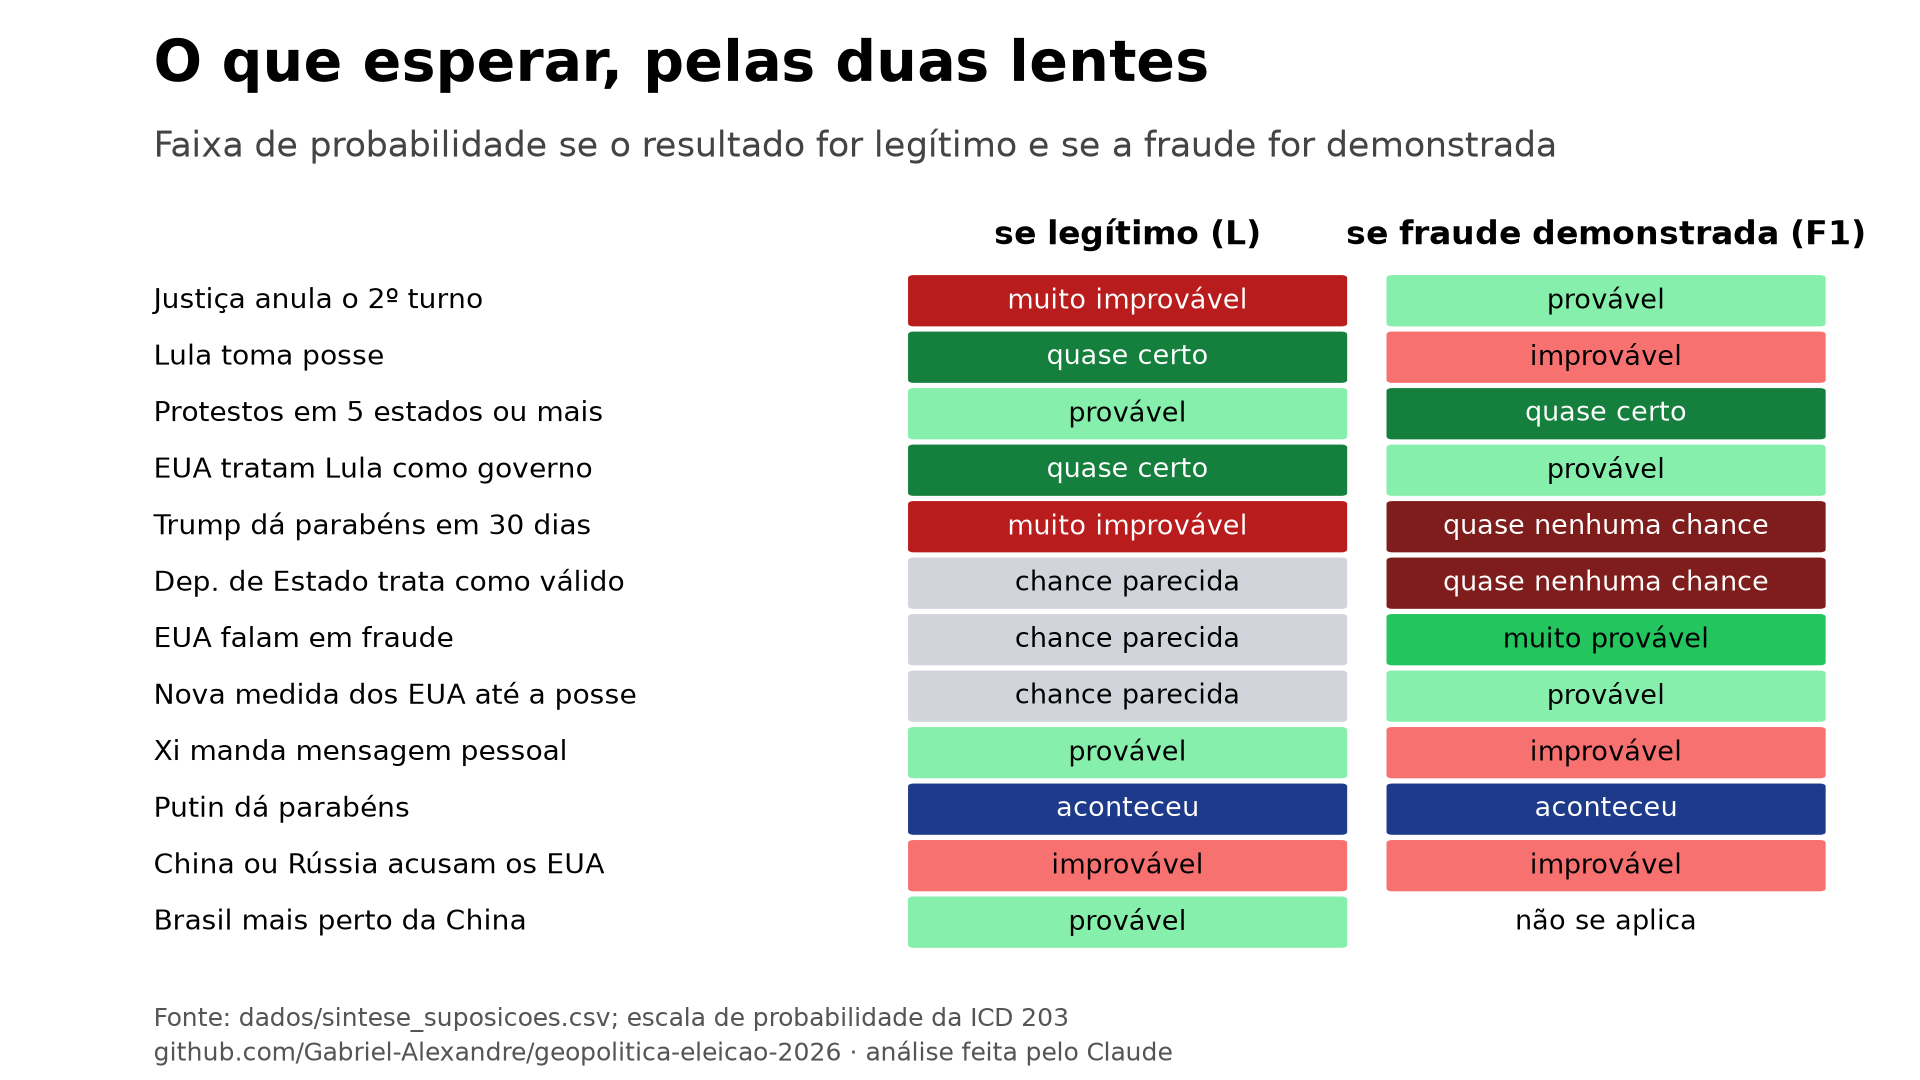
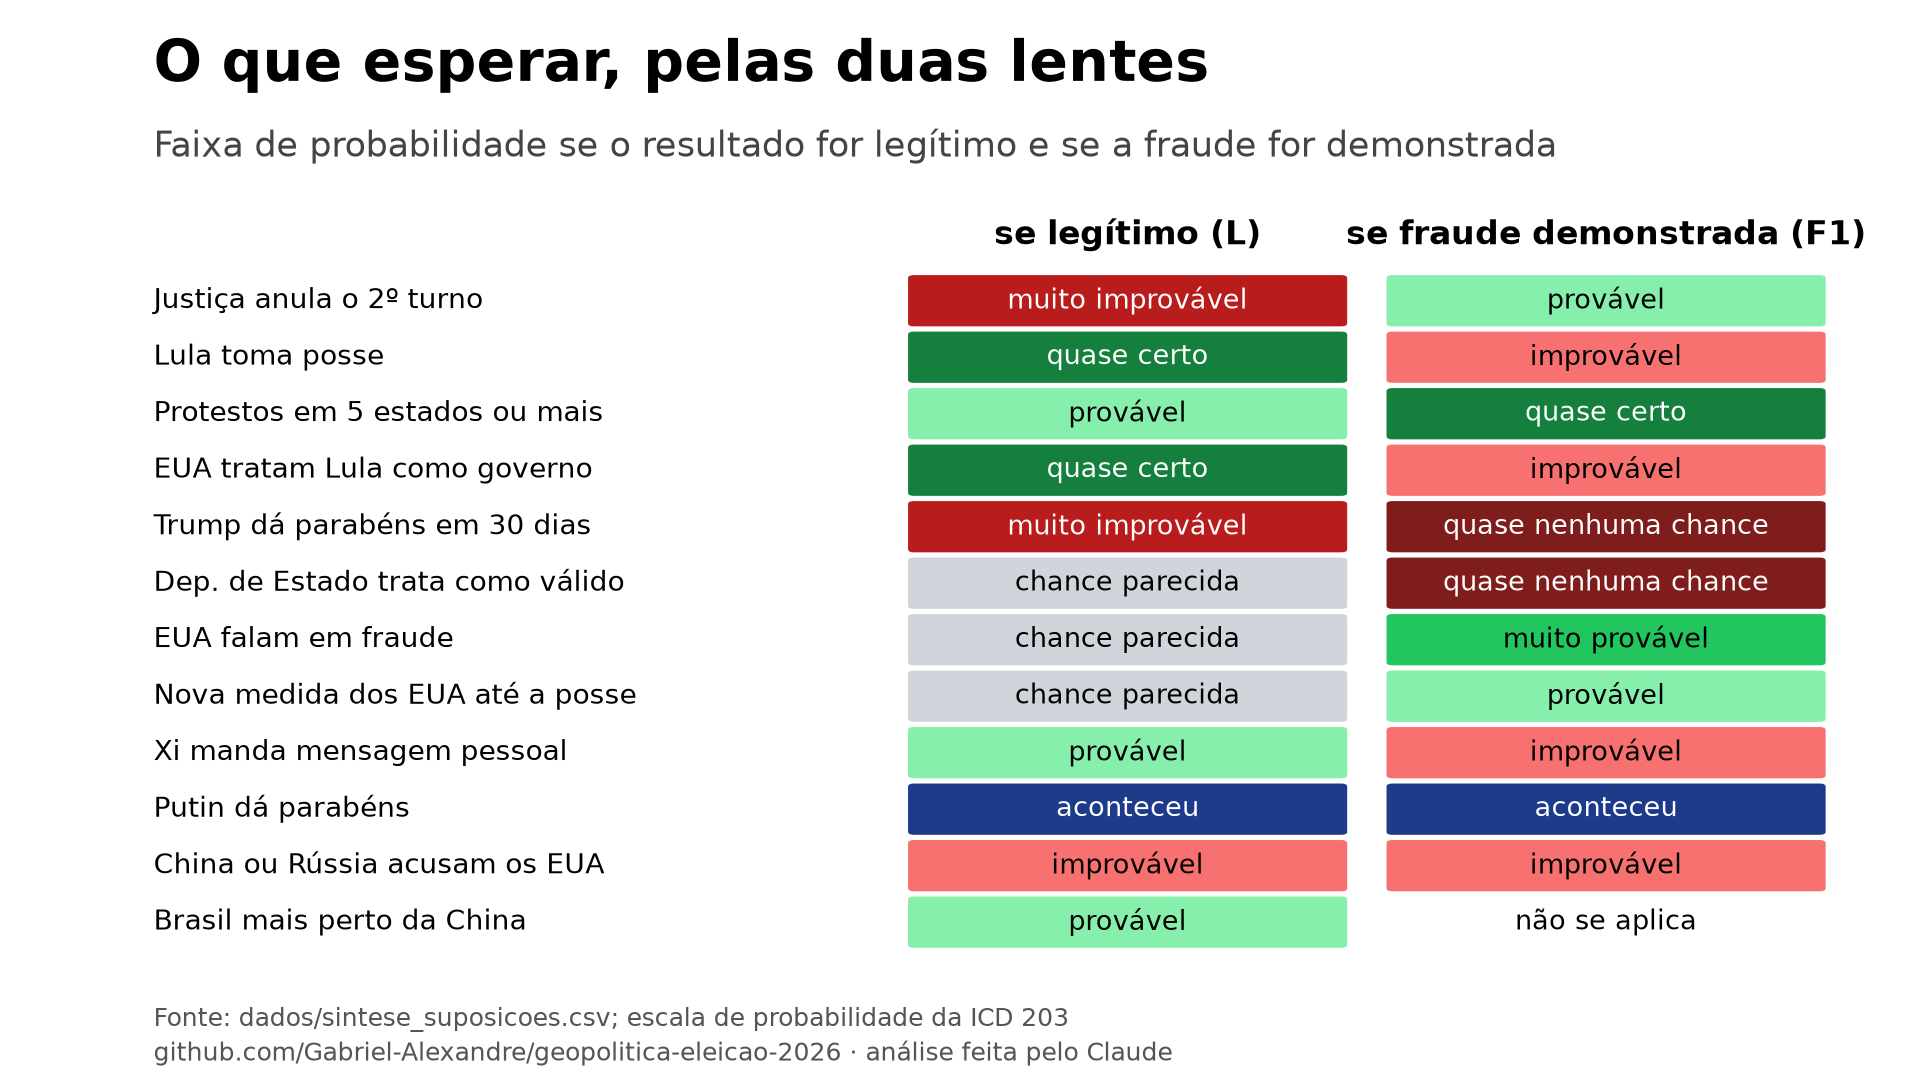
S4 em F1 volta para improvável (Bolívia 2019: com a eleição anulada, os EUA reconheceram a presidente interina); gráficos g09 (teto das duas pontas) e g10 (os 2 caminhos quando a fraude entra em jogo) para o vídeo

Changed region(s): [[0.7188, 0.3972, 0.9688, 0.4583]]

diff --git a/ferramentas/graficos.py b/ferramentas/graficos.py
@@ -187,9 +187,60 @@ def g08_suposicoes() -> None:
     salvar(figura, "g08_suposicoes_duas_lentes", "dados/sintese_suposicoes.csv; escala de probabilidade da ICD 203")
 
 
+def g09_teto(teto: dict) -> None:
+    """O tamanho que a queixa dos impedidos de votar precisaria ter, contra a abstenção inteira de 2022."""
+    figura, eixo = nova("Quantos impedidos de votar virariam o resultado",
+                        "Eleitores impedidos necessários para virar 4,43 milhões de votos, pela fatia que votaria no Flávio")
+    figura.subplots_adjust(left=0.30)
+    imp = teto["eleitores_impedidos_necessarios"]
+    nomes = ["se 60% votassem no Flávio", "se 75% votassem no Flávio", "se 100% votassem no Flávio",
+             "abstenção do 2º turno de 2022"]
+    valores = [imp["60% para o Flávio"], imp["75% para o Flávio"], imp["100% para o Flávio"], teto["abstencao_2o_turno_2022"]]
+    cores = ["#B03A2E", "#B03A2E", "#B03A2E", "#6B6B6B"]
+    barras = eixo.barh(range(len(nomes)), [v / 1e6 for v in valores], color=cores)
+    eixo.set_yticks(range(len(nomes)))
+    for barra, valor in zip(barras, valores):
+        eixo.text(barra.get_width() + 0.4, barra.get_y() + barra.get_height() / 2,
+                  f"{valor / 1e6:.1f} milhões".replace(".", ","), va="center", fontsize=22)
+    eixo.invert_yaxis()
+    eixo.set_yticklabels(nomes, fontsize=19)
+    eixo.set_xlim(0, 40)
+    eixo.set_xticks([])
+    eixo.spines["bottom"].set_visible(False)
+    salvar(figura, "g09_teto_das_duas_pontas", "resultados/RESUMO.json (teto_das_duas_pontas); TSE, via o projeto previsao-segundo-turno-2026")
+
+
+def g10_dois_caminhos() -> None:
+    """Variante V3: fraude apontada de fora contra a Justiça do país agindo."""
+    with (RESULTADOS / "variantes.csv").open(encoding="utf-8") as arquivo:
+        v3 = {(l["variante"], l["desfecho"]): l["variante_valor"] for l in csv.DictReader(arquivo) if l["variante"].startswith("V3")}
+    pegar = lambda grupo, desfecho: v3[(f"V3: só fraude {grupo}", desfecho)].split(" (")[0]  # noqa: E731
+    figura, eixo = nova("Os 2 caminhos quando a fraude entra em jogo", "O que aconteceu depois, nas eleições do histórico")
+    figura.subplots_adjust(right=0.95)
+    eixo.axis("off")
+    colunas = [
+        (0.01, "#7F1D1D", "FRAUDE APONTADA DE FORA", "Venezuela 2024 · Bielorrússia 2020",
+         [f"o acusado ficou no poder: {pegar('demonstrada', 'vencedor_tomou_posse')}",
+          f"os EUA não reconheceram: {pegar('demonstrada', 'eua_nao_reconheceu')}"]),
+        (0.51, "#1E3A8A", "A JUSTIÇA DO PAÍS AGIU", "Quênia 2017 · Bolívia 2019 · Romênia 2024",
+         [f"eleição anulada ou refeita: {pegar('disputada', 'anulada_ou_refeita')}",
+          "(o 4º caso, Quênia 2007, não foi anulado)"]),
+    ]
+    for x, cor, titulo, casos, linhas in colunas:
+        eixo.add_patch(matplotlib.patches.FancyBboxPatch((x, 0.05), 0.47, 0.9, boxstyle="round,pad=0.01",
+                                                         color=cor, alpha=0.12, transform=eixo.transAxes))
+        eixo.text(x + 0.02, 0.85, titulo, fontsize=23, fontweight="bold", color=cor, transform=eixo.transAxes)
+        eixo.text(x + 0.02, 0.74, casos, fontsize=17, color="#333333", transform=eixo.transAxes)
+        for i, linha in enumerate(linhas):
+            eixo.text(x + 0.02, 0.55 - i * 0.16, textwrap.fill(linha, 34), fontsize=20, transform=eixo.transAxes, va="top")
+    salvar(figura, "g10_os_dois_caminhos", "resultados/variantes.csv (V3), fichas em duas passadas")
+
+
 def main() -> None:
     resumo = json.loads((RESULTADOS / "RESUMO.json").read_text(encoding="utf-8"))
     f3 = resumo["f3"]
+    g09_teto(resumo["teto_das_duas_pontas"])
+    g10_dois_caminhos()
     g01_exportacoes(f3)
     g02_importacoes(f3)
     g03_onu(f3)

diff --git a/RELATORIO.md b/RELATORIO.md
@@ -22,7 +22,7 @@ Gerado por `ferramentas/gerar_relatorio.py`. Análise feita pelo Claude (Anthrop
 | S1 | A Justiça brasileira anula ou manda refazer o 2º turno | muito improvável | provável | quase nenhuma chance | sim (subiu, pela revisão) | Subiu pela revisão adversarial: tribunais anularam eleições por irregularidade de procedimento sem atribuir fraude (Quênia 2017, Malaui 2019); contados assim, a anulação na lente L deixa de ser zero (variante V1). Fica em muito improvável, e não mais alto, porque a queixa daqui é a prorrogação que as duas campanhas pediram e porque, segundo o g1, ministros do TSE avaliam que o pedido não prospera. Em F1 fica provável: quando a fraude foi disputada e a Justiça do país agiu, a eleição foi anulada ou refeita na maior parte dos casos (V3) |
 | S2 | Lula toma posse em 05/jan/2027 | quase certo | improvável | quase certo | não | Em todos os casos sem fraude demonstrada o vencedor tomou posse. Na lente F o histórico mostra posse em parte dos casos, mas eram países em que as instituições acusadas eram as mesmas que decidiam; em F1 a prova seria aceita pela Justiça brasileira, então a posse fica improvável |
 | S3 | Há protestos de rua contra o resultado em pelo menos 5 estados | provável | quase certo | provável | não | O histórico mede violência relevante, que é mais que protesto: é a referência mais próxima que as fichas têm. Em 2022, com margem menor, houve bloqueios e acampamentos. Pesa contra, e não mudou a faixa: até a manhã de 26/out nenhum bloqueio relevante foi achado |
-| S4 | Os EUA continuam tratando o governo Lula como o governo do Brasil | quase certo | provável | quase certo | sim (F1 subiu, pela revisão) | Em nenhum caso sem fraude demonstrada que fechou com duas fontes os EUA deixaram de reconhecer. Os não reconhecimentos da conta têm o vencedor como adversário dos EUA e, em geral, um nome alternativo reconhecido; no Brasil não há nome alternativo. Exceção fora da conta: a Ucrânia 2004 saiu por falta de duas fontes, e lá os EUA não reconheceram um vencedor que não era adversário. Em F1 subiu de improvável para provável pela revisão: o Lula é o presidente em exercício até 05/jan em qualquer lente, e nos casos de fraude disputada em que a Justiça do país agiu os EUA esperaram a nova eleição em vez de reconhecer outra pessoa |
+| S4 | Os EUA continuam tratando o governo Lula como o governo do Brasil | quase certo | improvável | quase certo | não | Em nenhum caso sem fraude demonstrada que fechou com duas fontes os EUA deixaram de reconhecer. Os não reconhecimentos da conta têm o vencedor como adversário dos EUA e, em geral, um nome alternativo reconhecido; no Brasil não há nome alternativo. Exceção fora da conta: a Ucrânia 2004 saiu por falta de duas fontes, e lá os EUA não reconheceram um vencedor que não era adversário. Em F1 fica improvável: o defensor da lente F pediu provável (o Lula é o presidente até 05/jan em qualquer lente), mas a suposição vai até 2027, e na Bolívia de 2019, com a eleição anulada, os EUA reconheceram a presidente interina; com uma anulação aqui, quem assumisse até a nova eleição seria outra pessoa |
 | S5 | Trump parabeniza Lula em público em até 30 dias | muito improvável | quase nenhuma chance | muito improvável | não | O histórico puxa para cima: na lente L os EUA quase sempre cumprimentaram, e com o vencedor neutro (como o Lula em 2014 e 2022, emenda 4) foi a maioria. Puxam para baixo a fala do próprio Trump (EFE) e o caso mais parecido da era Trump, a Hungria de 2026, em que o aliado perdeu e não houve cumprimento formal. A suposição é sobre o Trump em pessoa |
 | S6 | O Departamento de Estado trata o resultado como válido em público em até 30 dias | chance parecida | quase nenhuma chance | chance parecida | não | As duas forças se anulam: no histórico da lente L os EUA sempre reconheceram de alguma forma (na Hungria, com o vice-presidente dizendo que trabalharia com o novo governo); aqui o presidente pôs o resultado em dúvida, segundo a EFE, e o governo não tinha falado nas primeiras 13 horas. O defensor da lente L pediu provável; a faixa fica com a variante dele publicada |
 | S7 | Trump ou o governo dos EUA dizem em público que houve fraude ou apoiam a anulação | chance parecida | muito provável | chance parecida | sim (subiu) | Subiu porque o padrão do próprio Trump apareceu num caso recente: em Honduras 2025 ele falou em fraude sem prova quando a contagem atrasou, e aqui, segundo a EFE, já citou o Joe Biden ao falar do resultado. Pesa contra a Hungria 2026, em que ninguém do governo alegou fraude depois da derrota do aliado. O governo como instituição nunca declarou fraude num caso da lente L, por isso não passa de chance parecida |

diff --git a/docs/LEITURA_DA_IA.md b/docs/LEITURA_DA_IA.md
@@ -29,10 +29,10 @@ Feita pelo Claude depois de todas as fases. Para cada suposição: o que mudou d
 ## S4 · Os EUA continuam tratando o governo Lula como o governo do Brasil
 
 - **Antes (pré-registro):** L quase certo · F1 improvável · F2 quase certo
-- **Agora:** L quase certo · F1 provável · F2 quase certo
+- **Agora:** L quase certo · F1 improvável · F2 quase certo
 - **O histórico:** os EUA não reconheceram: 0 de 8 (0%) (fraude não demonstrada (lente L)) · os EUA não reconheceram: 4 de 5 (80%) (todos, vencedor adversario da potência)
 - **O estado em 26/out:** nenhuma nota, nenhuma ruptura
-- **Por quê:** Em nenhum caso sem fraude demonstrada que fechou com duas fontes os EUA deixaram de reconhecer. Os não reconhecimentos da conta têm o vencedor como adversário dos EUA e, em geral, um nome alternativo reconhecido; no Brasil não há nome alternativo. Exceção fora da conta: a Ucrânia 2004 saiu por falta de duas fontes, e lá os EUA não reconheceram um vencedor que não era adversário. Em F1 subiu de improvável para provável pela revisão: o Lula é o presidente em exercício até 05/jan em qualquer lente, e nos casos de fraude disputada em que a Justiça do país agiu os EUA esperaram a nova eleição em vez de reconhecer outra pessoa
+- **Por quê:** Em nenhum caso sem fraude demonstrada que fechou com duas fontes os EUA deixaram de reconhecer. Os não reconhecimentos da conta têm o vencedor como adversário dos EUA e, em geral, um nome alternativo reconhecido; no Brasil não há nome alternativo. Exceção fora da conta: a Ucrânia 2004 saiu por falta de duas fontes, e lá os EUA não reconheceram um vencedor que não era adversário. Em F1 fica improvável: o defensor da lente F pediu provável (o Lula é o presidente até 05/jan em qualquer lente), mas a suposição vai até 2027, e na Bolívia de 2019, com a eleição anulada, os EUA reconheceram a presidente interina; com uma anulação aqui, quem assumisse até a nova eleição seria outra pessoa
 
 ## S5 · Trump parabeniza Lula em público em até 30 dias
 

diff --git a/docs/REVISAO_ADVERSARIAL.md b/docs/REVISAO_ADVERSARIAL.md
@@ -18,7 +18,7 @@ Três leitores independentes, cada um uma instância da IA em contexto separado,
 | "Nenhuma eleição sem fraude demonstrada foi anulada" depende de como o Quênia 2017 e o Malaui 2019 foram codificados | lente F | aceita: variante V1; a S1 na lente L subiu de quase nenhuma chance para muito improvável |
 | A lente F do histórico juntava fraude demonstrada e disputada sem dizer | auditor | aceita: emenda 4 e variante V3, que mostra que os dois grupos se comportam de forma oposta |
 | A relação do Lula com os EUA em 2026 não estava declarada | lente L | aceita: declarada neutra, como em 2014 e 2022 (emenda 4), com a variante adversário publicada (V2) |
-| A coluna F1 não usava as taxas do grupo F (S4, S8) | lente F | aceita: S4 em F1 subiu para provável, S8 em F1 desceu para provável |
+| A coluna F1 não usava as taxas do grupo F (S4, S8) | lente F | aceita em parte: S8 em F1 desceu para provável. A S4 em F1 chegou a subir para provável e voltou para improvável na releitura do roteiro (26/out): a suposição vai até 2027, e na Bolívia de 2019, com a eleição anulada, os EUA reconheceram a presidente interina |
 | Sinais de distensão nas próprias capturas (sanção a Moraes retirada, tarifa sobre alimentos derrubada) não entravam na S8 | lente L | aceita: entraram no porquê da S8 |
 | A Hungria 2026 entrava para baixar a S5 e não era citada na S7 | lente L | aceita: a S7 agora cita a Hungria como evidência contra |
 | A H1 caía por "nenhuma nota em 24 h" quando só tinham passado umas 13 horas | lente L | aceita: texto corrigido |

diff --git a/RESUMO_SIMPLES.md b/RESUMO_SIMPLES.md
@@ -13,7 +13,7 @@
 - **A Justiça brasileira anula ou manda refazer o 2º turno:** muito improvável se o resultado for legítimo; provável se a fraude for demonstrada.
 - **Lula toma posse em 05/jan/2027:** quase certo se o resultado for legítimo; improvável se a fraude for demonstrada.
 - **Há protestos de rua contra o resultado em pelo menos 5 estados:** provável se o resultado for legítimo; quase certo se a fraude for demonstrada.
-- **Os EUA continuam tratando o governo Lula como o governo do Brasil:** quase certo se o resultado for legítimo; provável se a fraude for demonstrada.
+- **Os EUA continuam tratando o governo Lula como o governo do Brasil:** quase certo se o resultado for legítimo; improvável se a fraude for demonstrada.
 - **Trump parabeniza Lula em público em até 30 dias:** muito improvável se o resultado for legítimo; quase nenhuma chance se a fraude for demonstrada.
 - **O Departamento de Estado trata o resultado como válido em público em até 30 dias:** chance parecida se o resultado for legítimo; quase nenhuma chance se a fraude for demonstrada.
 - **Trump ou o governo dos EUA dizem em público que houve fraude ou apoiam a anulação:** chance parecida se o resultado for legítimo; muito provável se a fraude for demonstrada.
